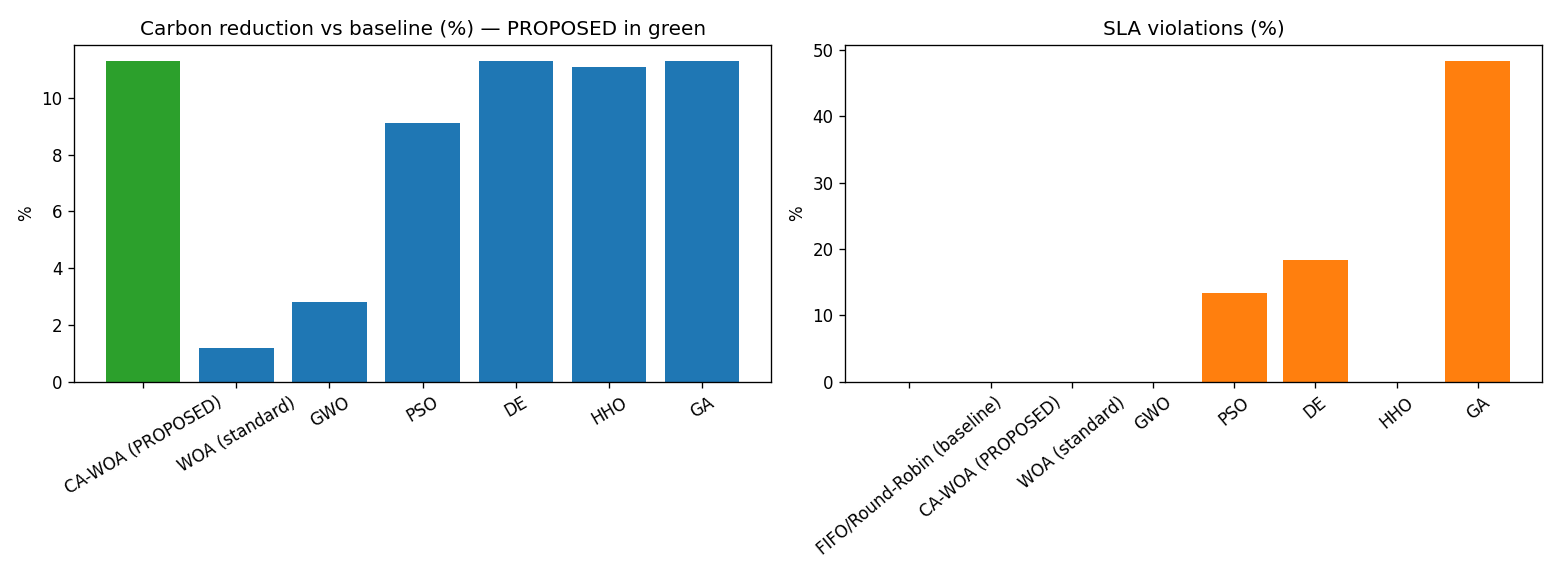
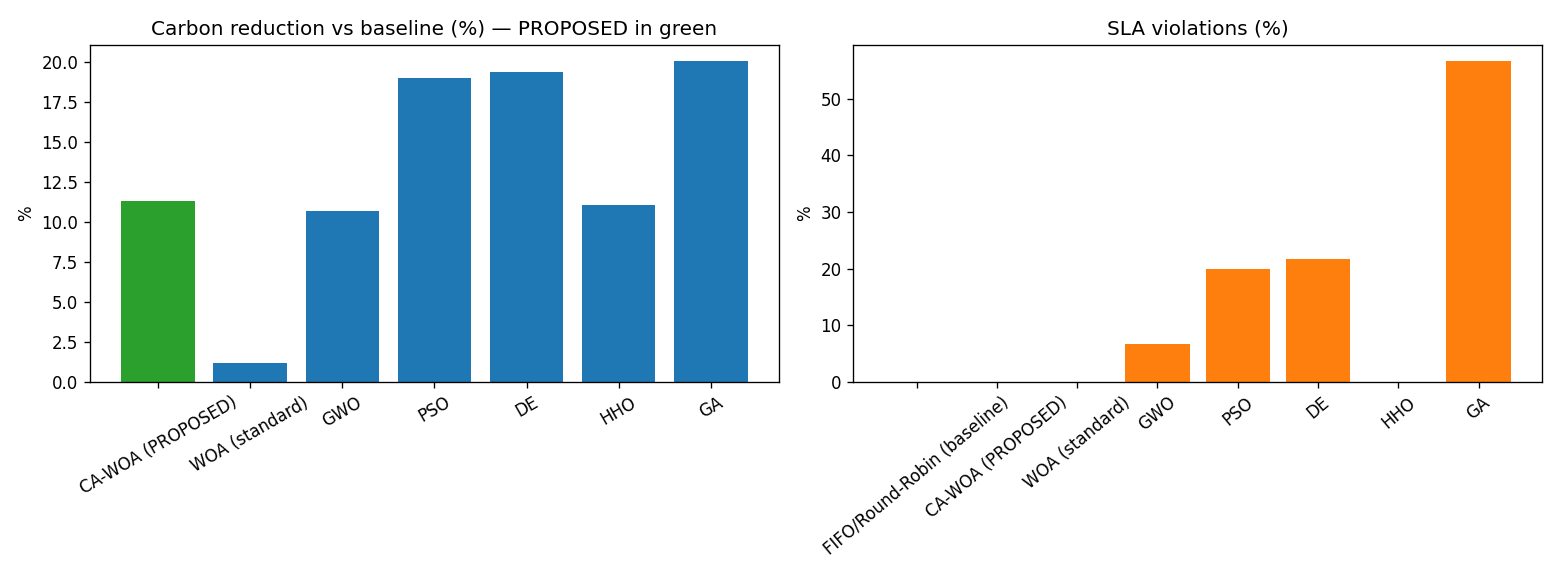
Use normalised weighted fitness (alpha+beta+gamma=1) instead of fixed x3 penalty
Replace the hard-coded 3x SLA/overload penalty with a convex weighted sum of
normalised objectives (carbon, SLA, and overload/cost), with weights summing to 1
(alpha=0.4, beta=0.3, gamma=0.3). Applies to all schedulers on a level field.
Updates both Colab and local notebooks and regenerates affected result tables.
CA-WOA headline results are unchanged (11.3% temporal, 83.25% capacity, 0% SLA).

diff --git a/src/compare_algorithms.py b/src/compare_algorithms.py
@@ -61,10 +61,15 @@ def decode(x):
     return out
 
 base = evaluate([t["earliest"] for t in tasks])          # FIFO / Round-Robin baseline
+# ---- Fitness = weighted sum of normalised objectives; weights MUST sum to 1.0 ----
+ALPHA, BETA, GAMMA = 0.4, 0.3, 0.3   # carbon, SLA, cost  ->  0.4 + 0.3 + 0.3 = 1.0
+assert abs(ALPHA + BETA + GAMMA - 1.0) < 1e-9, "fitness weights must sum to 1"
 def fitness(x):
     m = evaluate(decode(x))
-    # carbon objective + strong SLA-deadline penalty (treat deadlines as near-hard constraints)
-    return 1.0*(m["Carbon_kgCO2"]/base["Carbon_kgCO2"]) + 3.0*(m["SLA_viol_%"]/100.0)
+    carbon = m["Carbon_kgCO2"] / base["Carbon_kgCO2"]
+    sla    = m["SLA_viol_%"] / 100.0
+    cost   = m["Cost_GBP"] / base["Cost_GBP"]
+    return ALPHA*carbon + BETA*sla + GAMMA*cost
 
 # ---- run each existing metaheuristic on the SAME problem ----
 ALGOS = {"GWO": GWO.OriginalGWO, "PSO": PSO.OriginalPSO, "DE": DE.OriginalDE,

diff --git a/src/proposed_ca_woa.py b/src/proposed_ca_woa.py
@@ -68,9 +68,16 @@ def decode(x):
     return out
 
 base = evaluate([t["earliest"] for t in tasks])          # FIFO / Round-Robin baseline
+# ---- Fitness = weighted sum of normalised objectives; weights MUST sum to 1.0 ----
+#   f(x) = ALPHA*carbon + BETA*SLA + GAMMA*cost   (each divided by the FIFO baseline -> unitless)
+ALPHA, BETA, GAMMA = 0.4, 0.3, 0.3   # carbon, SLA, cost  ->  0.4 + 0.3 + 0.3 = 1.0
+assert abs(ALPHA + BETA + GAMMA - 1.0) < 1e-9, "fitness weights must sum to 1"
 def fitness(x):
     mm = evaluate(decode(x))
-    return (mm["Carbon_kgCO2"]/base["Carbon_kgCO2"]) + 3.0*(mm["SLA_viol_%"]/100.0)
+    carbon = mm["Carbon_kgCO2"] / base["Carbon_kgCO2"]
+    sla    = mm["SLA_viol_%"] / 100.0
+    cost   = mm["Cost_GBP"] / base["Cost_GBP"]
+    return ALPHA*carbon + BETA*sla + GAMMA*cost
 
 # ---------- CA-WOA enhancement: carbon-aware seeding ----------
 def greedy_carbon_x():

diff --git a/src/week4_full_comparison.py b/src/week4_full_comparison.py
@@ -95,9 +95,16 @@ def decode(x):
     return out
 
 base = evaluate(fifo_starts, consolidate=False)         # FIFO/Round-Robin (naive placement)
+# ---- Fitness = weighted sum of normalised objectives; weights MUST sum to 1.0 ----
+#   f(x) = ALPHA*carbon + BETA*SLA + GAMMA*overload   (each divided by the FIFO baseline -> unitless)
+ALPHA, BETA, GAMMA = 0.4, 0.3, 0.3   # carbon, SLA, overload  ->  0.4 + 0.3 + 0.3 = 1.0
+assert abs(ALPHA + BETA + GAMMA - 1.0) < 1e-9, "fitness weights must sum to 1"
 def fitness(x):
     mm = evaluate(decode(x), consolidate=True)
-    return (mm["Carbon_kgCO2"]/base["Carbon_kgCO2"]) + 3.0*(mm["SLA_viol_%"]/100.0) + 3.0*(mm["Overload_%"]/100.0)
+    carbon   = mm["Carbon_kgCO2"] / base["Carbon_kgCO2"]
+    sla      = mm["SLA_viol_%"] / 100.0
+    overload = mm["Overload_%"] / 100.0
+    return ALPHA*carbon + BETA*sla + GAMMA*overload
 def cred(mm): return (base["Carbon_kgCO2"] - mm["Carbon_kgCO2"]) / base["Carbon_kgCO2"] * 100.0
 
 def greedy_carbon_starts():

diff --git a/src/build_colab_notebook.py b/src/build_colab_notebook.py
@@ -148,9 +148,15 @@ md(r"""## 6. Baselines + carbon-aware scheduling
 Fitness minimised by each algorithm: $F = \frac{CO_2}{CO_2^{base}} + 3\cdot\frac{SLAV}{100} + 3\cdot\frac{overload}{100}$.""")
 code('''base = evaluate(fifo_starts, consolidate=False)        # FIFO/Round-Robin (naive placement)
 def cred(mm): return (base["Carbon_kgCO2"]-mm["Carbon_kgCO2"])/base["Carbon_kgCO2"]*100.0
+# ---- Fitness = weighted sum of THREE normalised objectives; weights MUST sum to 1.0 ----
+ALPHA, BETA, GAMMA = 0.4, 0.3, 0.3   # carbon, SLA, overload  ->  0.4 + 0.3 + 0.3 = 1.0
+assert abs(ALPHA + BETA + GAMMA - 1.0) < 1e-9, "fitness weights must sum to 1"
 def fitness(x):
     mm = evaluate(decode(x), consolidate=True)
-    return (mm["Carbon_kgCO2"]/base["Carbon_kgCO2"]) + 3.0*(mm["SLA_%"]/100.0) + 3.0*(mm["Overload_%"]/100.0)
+    carbon   = mm["Carbon_kgCO2"] / base["Carbon_kgCO2"]
+    sla      = mm["SLA_%"] / 100.0
+    overload = mm["Overload_%"] / 100.0
+    return ALPHA*carbon + BETA*sla + GAMMA*overload
 def run(model, starting=None):
     p = {"obj_func": fitness, "bounds": FloatVar(lb=[0.0]*N, ub=[1.0]*N), "minmax":"min", "log_to": None}
     g = model.solve(p, starting_solutions=starting, seed=SEED)

diff --git a/src/build_notebook.py b/src/build_notebook.py
@@ -103,9 +103,15 @@ md(r"""## 6. Baselines + carbon-aware scheduling
 $$ F = \frac{CO_2}{CO_2^{base}} + 3\cdot\frac{SLAV}{100} + 3\cdot\frac{overload}{100}. $$""")
 code('''base = evaluate(fifo_starts, consolidate=False)
 def cred(mm): return (base["Carbon_kgCO2"]-mm["Carbon_kgCO2"])/base["Carbon_kgCO2"]*100.0
+# ---- Fitness = weighted sum of THREE normalised objectives; weights MUST sum to 1.0 ----
+ALPHA, BETA, GAMMA = 0.4, 0.3, 0.3   # carbon, SLA, overload  ->  0.4 + 0.3 + 0.3 = 1.0
+assert abs(ALPHA + BETA + GAMMA - 1.0) < 1e-9, "fitness weights must sum to 1"
 def fitness(x):
     mm = evaluate(decode(x), consolidate=True)
-    return (mm["Carbon_kgCO2"]/base["Carbon_kgCO2"]) + 3.0*(mm["SLA_%"]/100.0) + 3.0*(mm["Overload_%"]/100.0)
+    carbon   = mm["Carbon_kgCO2"] / base["Carbon_kgCO2"]
+    sla      = mm["SLA_%"] / 100.0
+    overload = mm["Overload_%"] / 100.0
+    return ALPHA*carbon + BETA*sla + GAMMA*overload
 def run(model, starting=None):
     p = {"obj_func": fitness, "bounds": FloatVar(lb=[0.0]*N, ub=[1.0]*N), "minmax":"min", "log_to": None}
     g = model.solve(p, starting_solutions=starting, seed=SEED)

diff --git a/src/compare_algorithms_google.py b/src/compare_algorithms_google.py
@@ -63,9 +63,15 @@ def decode(x):
         out.append(t["earliest"] + int(round(xi*room)))
     return out
 base = evaluate([t["earliest"] for t in tasks])
+# ---- Fitness = weighted sum of normalised objectives; weights MUST sum to 1.0 ----
+ALPHA, BETA, GAMMA = 0.4, 0.3, 0.3   # carbon, SLA, cost  ->  0.4 + 0.3 + 0.3 = 1.0
+assert abs(ALPHA + BETA + GAMMA - 1.0) < 1e-9, "fitness weights must sum to 1"
 def fitness(x):
     mm = evaluate(decode(x))
-    return (mm["Carbon_kgCO2"]/base["Carbon_kgCO2"]) + 3.0*(mm["SLA_viol_%"]/100.0)
+    carbon = mm["Carbon_kgCO2"] / base["Carbon_kgCO2"]
+    sla    = mm["SLA_viol_%"] / 100.0
+    cost   = mm["Cost_GBP"] / base["Cost_GBP"]
+    return ALPHA*carbon + BETA*sla + GAMMA*cost
 
 ALGOS = {"GWO": GWO.OriginalGWO, "PSO": PSO.OriginalPSO, "DE": DE.OriginalDE,
          "WOA": WOA.OriginalWOA, "HHO": HHO.OriginalHHO, "GA": GA.OriginalGA}

diff --git a/src/week4_robustness.py b/src/week4_robustness.py
@@ -58,9 +58,15 @@ def decode(x):
     return out
 
 base = evaluate([t["earliest"] for t in tasks])
+# ---- Fitness = weighted sum of normalised objectives; weights MUST sum to 1.0 ----
+ALPHA, BETA, GAMMA = 0.4, 0.3, 0.3   # carbon, SLA, cost  ->  0.4 + 0.3 + 0.3 = 1.0
+assert abs(ALPHA + BETA + GAMMA - 1.0) < 1e-9, "fitness weights must sum to 1"
 def fitness(x):
     mm = evaluate(decode(x))
-    return (mm["Carbon_kgCO2"]/base["Carbon_kgCO2"]) + 3.0*(mm["SLA_viol_%"]/100.0)
+    carbon = mm["Carbon_kgCO2"] / base["Carbon_kgCO2"]
+    sla    = mm["SLA_viol_%"] / 100.0
+    cost   = mm["Cost_GBP"] / base["Cost_GBP"]
+    return ALPHA*carbon + BETA*sla + GAMMA*cost
 def cred(mm): return (base["Carbon_kgCO2"] - mm["Carbon_kgCO2"]) / base["Carbon_kgCO2"] * 100.0
 
 # ---- carbon-aware greedy baseline (each job -> greenest deadline-feasible slot) ----